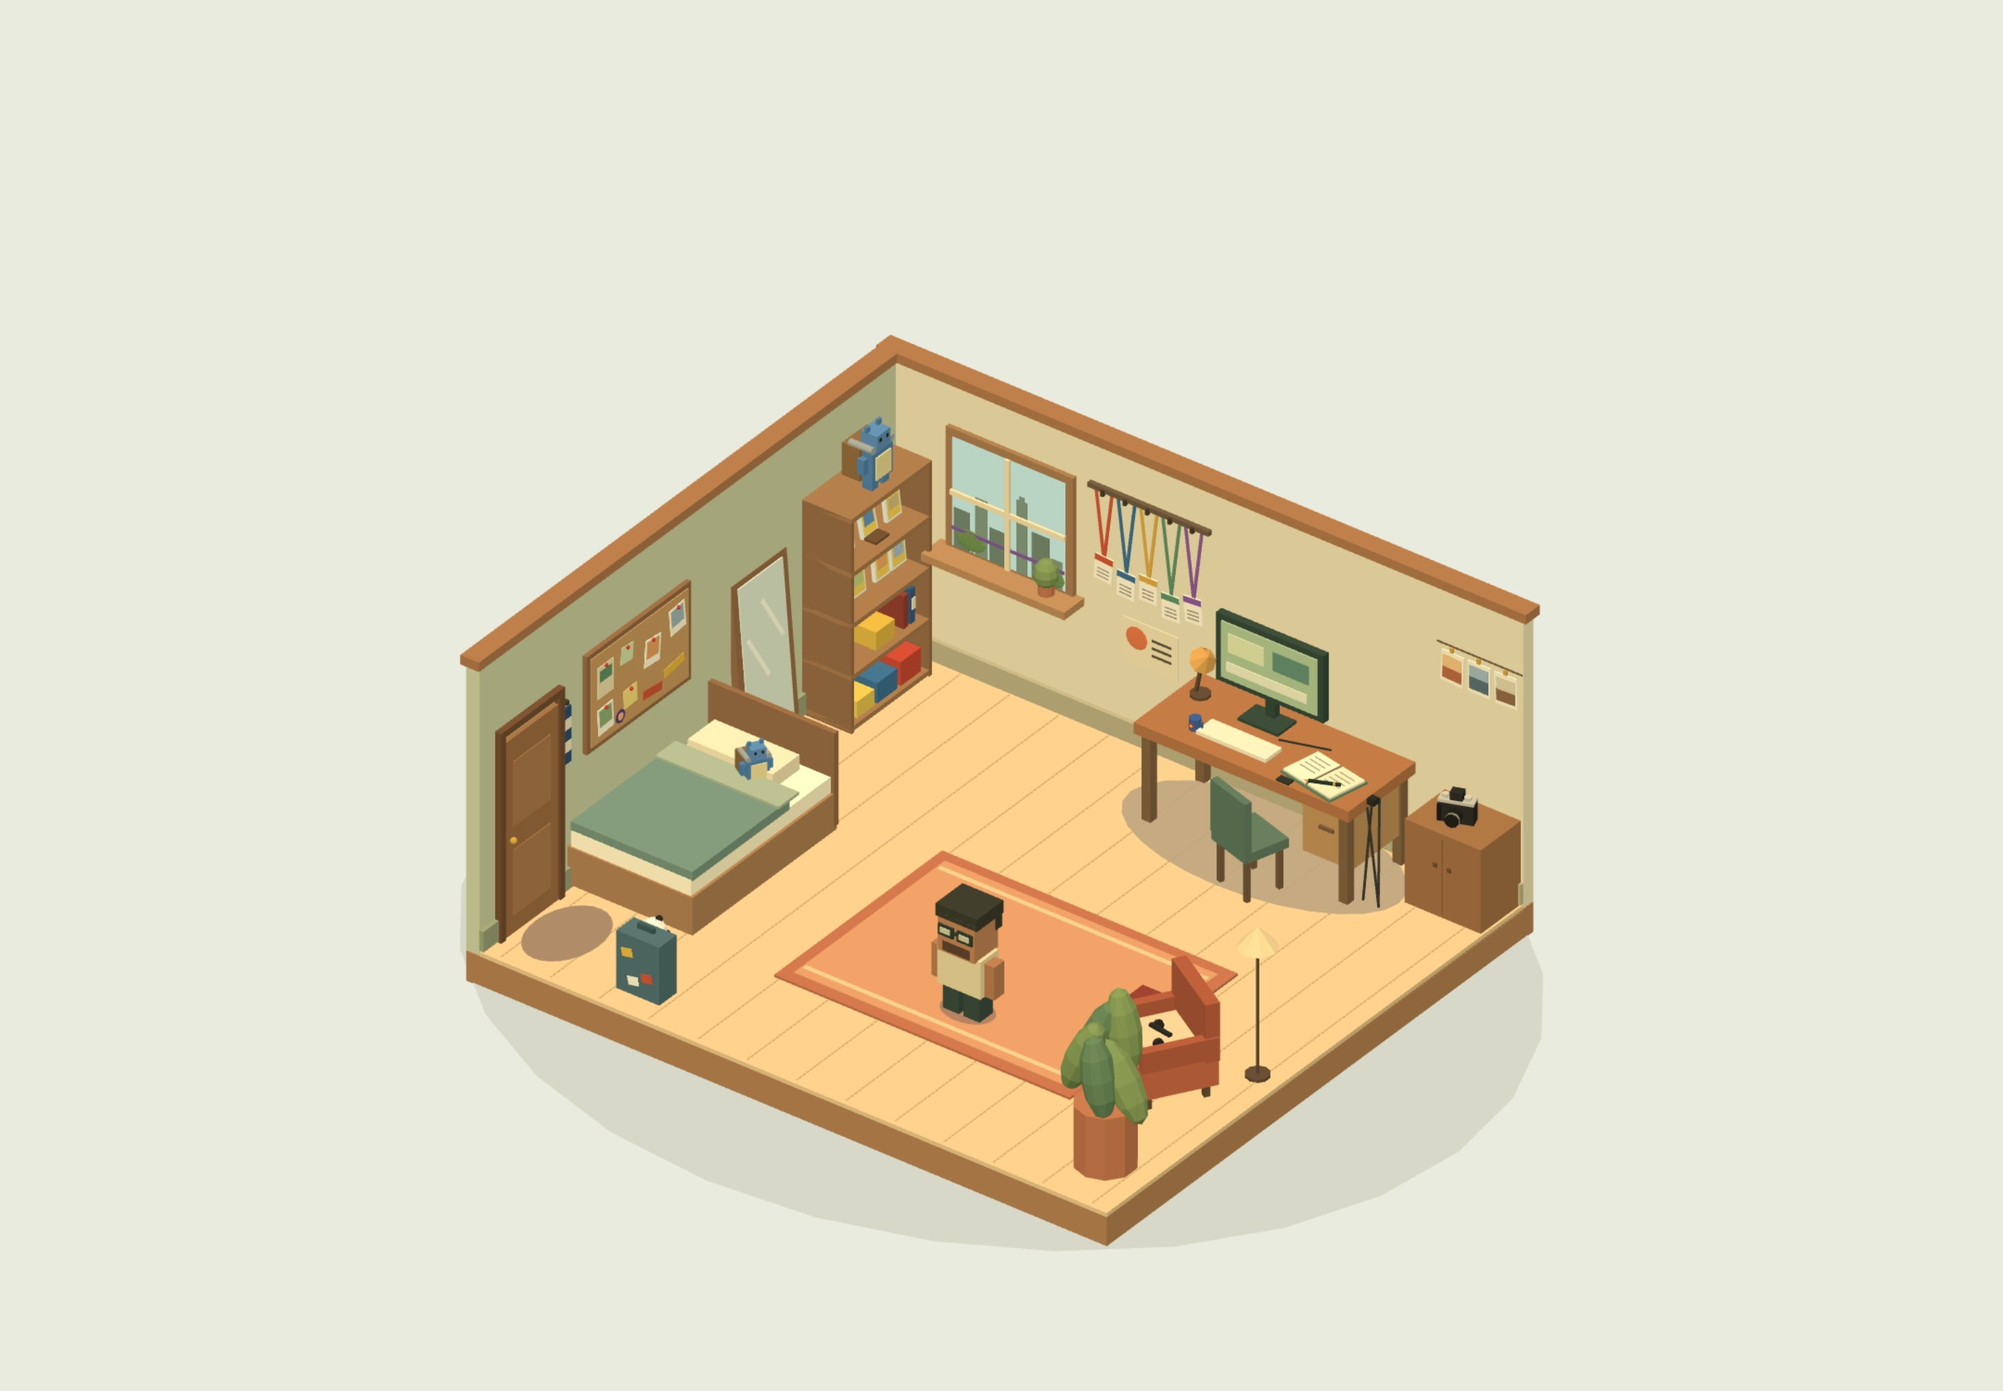
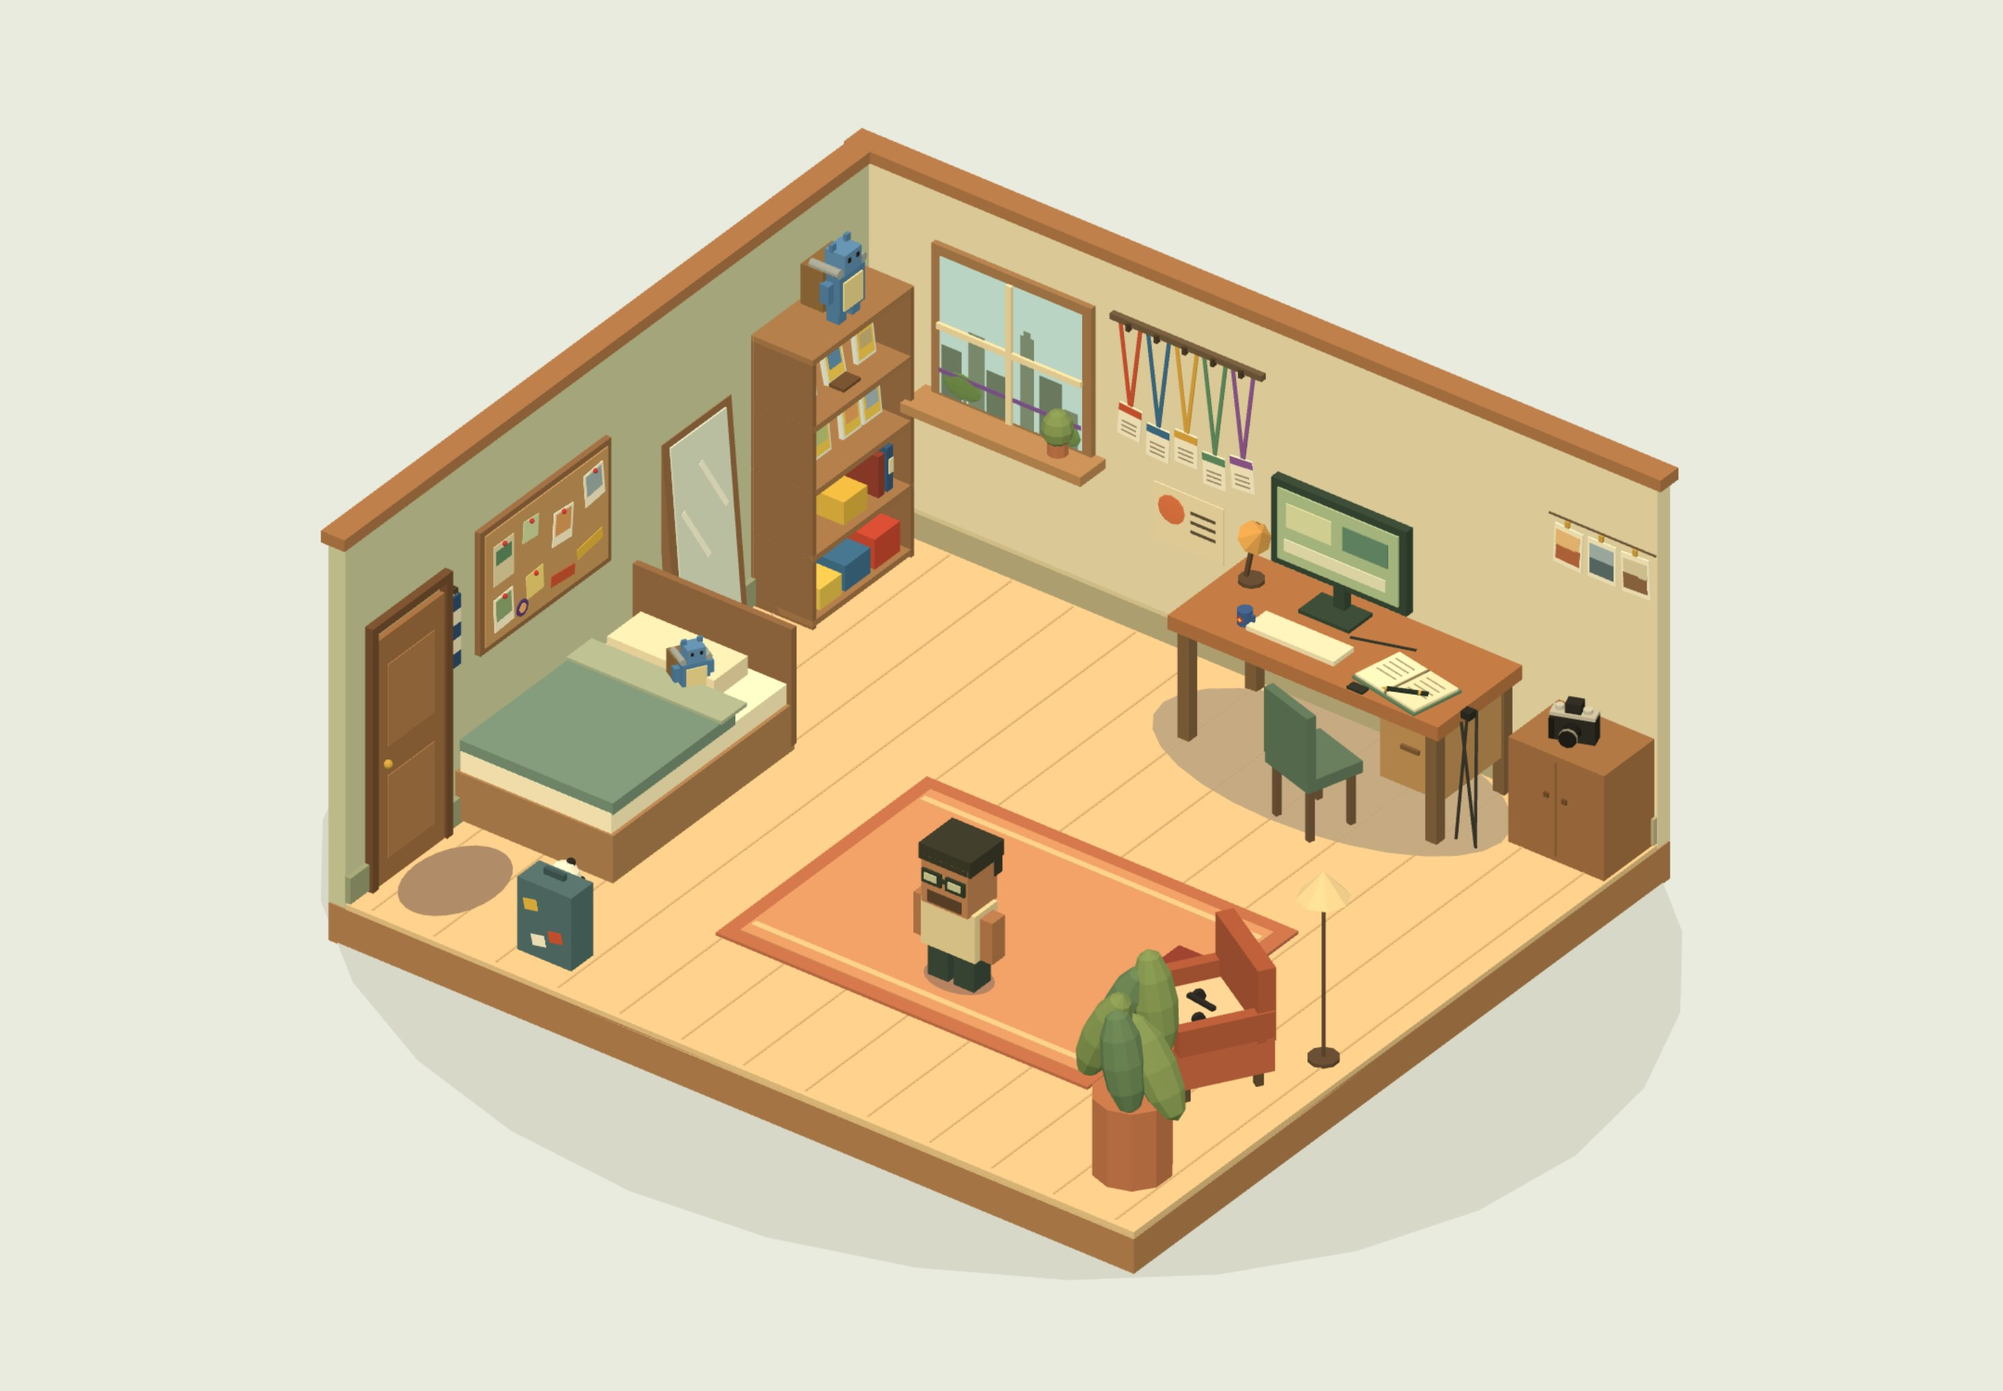
V3: focus the room on arrival, larger desktop room, E closes stations
Keyboard play now works the moment World appears: the room takes focus
on arrival unless something else already has it, and movement keys that
land on the page are routed to the room. On wide screens the room fills
most of the height instead of ~60%. E closes an open station, matching
E to open it, without reopening on the same key press.

diff --git a/src/lib/components/world/WorldView.svelte b/src/lib/components/world/WorldView.svelte
@@ -19,6 +19,7 @@
 	let lowQuality = $state(false);
 	let roomState = $state<RoomState>();
 	let diagnostics = $state(false);
+	let coarse = $state(false);
 	let open = $state<StationId | null>(null);
 	let hover = $state<{ label: string; x: number; y: number } | null>(null);
 	let note = $state('');
@@ -26,6 +27,42 @@
 	let returnFocus: HTMLElement | null = null;
 
 	const near = $derived(roomState?.near ? stationById[roomState.near] : null);
+
+	// Keyboard play should work the moment the room appears. Focus it on arrival, unless the
+	// visitor has already focused something; no focus ring for this programmatic focus.
+	const roomKeys = new Set([
+		'w',
+		'a',
+		's',
+		'd',
+		'e',
+		'arrowup',
+		'arrowleft',
+		'arrowdown',
+		'arrowright'
+	]);
+	const nothingFocused = () => !document.activeElement || document.activeElement === document.body;
+	function focusRoom() {
+		canvas.focus({ preventScroll: true, focusVisible: false } as FocusOptions);
+	}
+	let arrived = false;
+	function focusOnArrival() {
+		if (arrived) return;
+		arrived = true;
+		if (nothingFocused() && !dialog.open) focusRoom();
+	}
+	// If focus drifts to the page itself, movement keys still reach the room. Focused
+	// controls, the menu, and open stations are never interrupted, and Tab still leaves.
+	function forwardRoomKeys(event: KeyboardEvent) {
+		if (status !== 'ready' || !nothingFocused() || dialog.open) return;
+		if (menu.matches(':popover-open') || event.altKey || event.ctrlKey || event.metaKey) return;
+		if (!roomKeys.has(event.key.toLowerCase())) return;
+		event.preventDefault();
+		focusRoom();
+		canvas.dispatchEvent(
+			new KeyboardEvent('keydown', { key: event.key, repeat: event.repeat, cancelable: true })
+		);
+	}
 
 	// Deep pages link to /world#<station>; open it once the room is ready, or directly if it failed.
 	let hashHandled = false;
@@ -38,6 +75,7 @@
 		else void showStation(id);
 	}
 	$effect(() => {
+		if (status === 'ready') focusOnArrival();
 		if (status !== 'loading') openFromHash();
 	});
 
@@ -49,6 +87,16 @@
 		hover = null;
 		await tick();
 		if (!dialog.open) dialog.showModal();
+	}
+	// E opens a station from the room, so E closes it too (Escape still works).
+	// Ignore key repeat, so holding E after opening doesn't close it straight away, and stop the
+	// event here so it can't reach the room and reopen the station it just closed.
+	function closeOnE(event: KeyboardEvent) {
+		if (event.key.toLowerCase() !== 'e' || event.repeat) return;
+		if (event.altKey || event.ctrlKey || event.metaKey) return;
+		event.preventDefault();
+		event.stopPropagation();
+		dialog.close();
 	}
 	function closeStation() {
 		open = null;
@@ -89,10 +137,13 @@
 			menuButton.getBoundingClientRect().top,
 			hintEl?.getBoundingClientRect().top ?? height
 		);
-		room.setInsets({
-			top: topEl.getBoundingClientRect().bottom + 8,
-			bottom: narrow ? Math.max(24, height - lowest + 12) : 24
-		});
+		const titleBottom = topEl.getBoundingClientRect().bottom;
+		room.setInsets(
+			narrow
+				? { top: titleBottom + 8, bottom: Math.max(24, height - lowest + 12), units: 9.4 }
+				: // On wide screens the title sits left of the room's top, so it can overlap.
+					{ top: titleBottom * 0.5, bottom: 24, units: 8.6 }
+		);
 	}
 	$effect(() => {
 		if (status === 'ready' && hintEl) measureInsets();
@@ -108,6 +159,8 @@
 			room?.setReducedMotion(reducedMotion);
 		};
 		motion.addEventListener('change', updateMotion);
+		coarse = window.matchMedia('(pointer: coarse)').matches;
+		window.addEventListener('keydown', forwardRoomKeys);
 		const observer = new ResizeObserver(measureInsets);
 		observer.observe(frameEl);
 		observer.observe(topEl);
@@ -146,6 +199,7 @@
 			window.clearTimeout(timeout);
 			window.clearTimeout(noteTimer);
 			motion.removeEventListener('change', updateMotion);
+			window.removeEventListener('keydown', forwardRoomKeys);
 			room?.destroy();
 		};
 	});
@@ -223,11 +277,17 @@
 			{#if near}
 				<span class="eyebrow">{near.number} / {near.area}</span>
 				<span class="hint-title">{near.object}</span>
-				<span class="hint-key"><kbd>E</kbd> or tap it to look closer</span>
+				<span class="hint-key"
+					>{#if coarse}Tap it to look closer{:else}Press <kbd>E</kbd> to look closer{/if}</span
+				>
 			{:else}
 				<span class="eyebrow">Start anywhere</span>
 				<span class="hint-title">Walk up to something.</span>
-				<span class="hint-key">Or open the menu to pick.</span>
+				<span class="hint-key"
+					>{#if coarse}Tap the floor to walk, or open the menu.{:else}<kbd>W</kbd><kbd>A</kbd><kbd
+							>S</kbd
+						><kbd>D</kbd> or arrows to walk, or open the menu.{/if}</span
+				>
 			{/if}
 		</div>
 	{/if}
@@ -310,9 +370,18 @@
 	</p>
 </section>
 
-<dialog bind:this={dialog} class="sheet" onclose={closeStation} aria-labelledby="station-title">
+<dialog
+	bind:this={dialog}
+	class="sheet"
+	onclose={closeStation}
+	onkeydown={closeOnE}
+	aria-labelledby="station-title"
+>
 	{#if open}
 		<div class="sheet-top">
+			{#if !coarse}<span class="sheet-hint" aria-hidden="true"
+					><kbd>E</kbd> or <kbd>Esc</kbd> to close</span
+				>{/if}
 			<button class="close" onclick={() => dialog.close()} aria-label="Close and return to the room"
 				>Close ×</button
 			>
@@ -748,7 +817,15 @@
 	.sheet-top {
 		display: flex;
 		justify-content: flex-end;
+		align-items: center;
+		gap: 12px;
 		margin-bottom: 8px;
+	}
+	.sheet-hint {
+		font:
+			12px system-ui,
+			sans-serif;
+		color: #5f6555;
 	}
 	.close {
 		min-height: 44px;

diff --git a/tests/browser/world.spec.ts b/tests/browser/world.spec.ts
@@ -96,8 +96,20 @@ test('walking up to a station and pressing E inspects it', async ({ page }) => {
 	await page.mouse.click(target.x, target.y);
 	const canvas = page.locator('canvas');
 	await expect(canvas).toHaveAttribute('data-near', 'shelf');
-	await page.keyboard.press('e');
+	// Holding E opens the station once; the key repeat must not close it again.
+	await page.keyboard.down('e');
 	await expect(page.getByRole('heading', { name: 'Blastoise gets the top shelf.' })).toBeVisible();
+	await page.keyboard.down('e');
+	await page.keyboard.up('e');
+	await expect(page.getByRole('dialog')).toBeVisible();
+	// E closes what E opened, returns to the room, and does not reopen it.
+	await page.keyboard.press('e');
+	await expect(page.getByRole('dialog')).not.toBeVisible();
+	await expect(canvas).toBeFocused();
+	await page.waitForTimeout(300);
+	await expect(page.getByRole('dialog')).not.toBeVisible();
+	await page.keyboard.press('e');
+	await expect(page.getByRole('dialog')).toBeVisible();
 	await page.getByRole('button', { name: 'Back to the room' }).click();
 	await expect(canvas).toBeFocused();
 });
@@ -268,4 +280,41 @@ test('/now is a readable page that fills in the Bengaluru time', async ({ page }
 	await expect(page.getByRole('heading', { level: 1, name: 'Right now' })).toBeVisible();
 	await expect(page.getByText('Working on')).toBeVisible();
 	await expect(page.locator('.lede')).toContainText('here');
+});
+
+test('arriving focuses the room, so the keyboard works without a click', async ({ page }) => {
+	await openRoom(page);
+	const canvas = page.locator('canvas');
+	await expect(canvas).toBeFocused();
+	const start = await canvas.getAttribute('data-x');
+	await page.keyboard.down('d');
+	await page.waitForTimeout(300);
+	await page.keyboard.up('d');
+	await expect(canvas).not.toHaveAttribute('data-x', start!);
+	// If focus drifts to the page itself, movement keys still reach the room.
+	await page.evaluate(() => (document.activeElement as HTMLElement).blur());
+	const next = await canvas.getAttribute('data-x');
+	await page.keyboard.down('a');
+	await page.waitForTimeout(300);
+	await page.keyboard.up('a');
+	await expect(canvas).toBeFocused();
+	await expect(canvas).not.toHaveAttribute('data-x', next!);
+	// Focused controls keep focus; Tab still leaves the room.
+	await page.getByRole('link', { name: 'Index', exact: true }).focus();
+	await page.keyboard.press('d');
+	await expect(page.getByRole('link', { name: 'Index', exact: true })).toBeFocused();
+});
+
+test('arrival never steals focus from a deep-linked station or other pages', async ({
+	browser
+}) => {
+	const context = await browser.newContext({ reducedMotion: 'reduce' });
+	const page = await context.newPage();
+	await page.goto('/world#door');
+	await expect(page.getByRole('heading', { name: 'Elsewhere' })).toBeVisible();
+	expect(await page.evaluate(() => Boolean(document.activeElement?.closest('dialog')))).toBe(true);
+	await page.goto('/index');
+	await page.waitForLoadState('networkidle');
+	expect(await page.evaluate(() => document.activeElement === document.body)).toBe(true);
+	await context.close();
 });

diff --git a/src/lib/world/scene.ts b/src/lib/world/scene.ts
@@ -232,7 +232,7 @@ export function createRoom(canvas: HTMLCanvasElement, options: Options) {
 	let reducedMotion = options.reducedMotion;
 	let lowQuality = options.lowQuality;
 	// Screen space covered by overlaid UI (CSS px); the room is framed in what's left.
-	let insets = { top: 0, bottom: 0 };
+	let insets = { top: 0, bottom: 0, units: 9.4 };
 	let paused = false;
 	let disposed = false;
 	let frame = 0;
@@ -553,7 +553,8 @@ export function createRoom(canvas: HTMLCanvasElement, options: Options) {
 		const { width, height } = canvas.getBoundingClientRect();
 		if (!width || !height) return;
 		const free = Math.max(height * 0.4, height - insets.top - insets.bottom);
-		const freeHeight = Math.max(9.4, 11.4 / (width / free));
+		// The room is ~9.5 × 8 units on screen; `units` sets how snugly it fills the free height.
+		const freeHeight = Math.max(insets.units, 11.4 / (width / free));
 		const unitsPerPx = freeHeight / free;
 		const viewHeight = unitsPerPx * height;
 		const aspect = width / height;
@@ -637,8 +638,13 @@ export function createRoom(canvas: HTMLCanvasElement, options: Options) {
 			lowQuality = value;
 			resize();
 		},
-		setInsets(value: { top: number; bottom: number }) {
-			if (value.top === insets.top && value.bottom === insets.bottom) return;
+		setInsets(value: { top: number; bottom: number; units: number }) {
+			if (
+				value.top === insets.top &&
+				value.bottom === insets.bottom &&
+				value.units === insets.units
+			)
+				return;
 			insets = value;
 			resize();
 		},

diff --git a/og/og.html b/og/og.html
@@ -116,7 +116,7 @@
 				object-fit: cover;
 				object-position: 50% 57%;
 				/* The capture is full-page; zoom so the room fills the card. */
-				transform: scale(1.3);
+				transform: scale(1.04);
 				transform-origin: 50% 57%;
 			}
 		</style>

diff --git a/HANDOVER.md b/HANDOVER.md
@@ -10,7 +10,7 @@
 
 ## Current state (verified 2026-10-01)
 
-- Branch: `v3-world`, based on `12cbe80`. One commit per phase: Phase 0 `f85cdaf`, Phase 1 `2e6ceee`, Phase 2 `298269e`, Phase 3 `e71d7cc`, Phase 4 `9b8afb4`, Phase 5 `4b772bd`, then a full-page World follow-up (this state). `main` is untouched. Nothing is pushed to the remote.
+- Branch: `v3-world`, based on `12cbe80`. One commit per phase: Phase 0 `f85cdaf`, Phase 1 `2e6ceee`, Phase 2 `298269e`, Phase 3 `e71d7cc`, Phase 4 `9b8afb4`, Phase 5 `4b772bd`, full-page World `1b0e26b`, then focus, desktop size, and E-to-close (this state). `main` is untouched. Nothing is pushed to the remote.
 - Stack: SvelteKit 2.70, Svelte 5.57, TypeScript, Tailwind 4, **adapter-node 5.5.7** (replaced adapter-static), Three.js 0.186.1.
 - `/world` has all nine stations from the brief (desk & computer, notebook & fountain pen, Fujifilm X-T30 II, Pokémon shelf, corkboard, conference wall, mirror, window, door) and four curiosities (Blastoise plush, Superman mug, suitcase, football), plus decoration (reading corner, tripod, prints, lamp). The window follows Bengaluru time. `/now` exists. `/index` is SSR and never loads the scene.
 - `/` renders World or Index on the server from the `mode` cookie (default World). `/world` and `/index` set it.
@@ -282,4 +282,15 @@
 - `scripts/derive-assets.mjs`: hides the new overlays when capturing. Regenerated `static/room-still.jpg` (69 KB, full-page framing), `og/room.jpg`, and the portrait copies (byte-identical). `og/og.html`: zooms the full-page capture so the room still fills the card; `static/og.png` re-rendered.
 - `v3.md`: input contract and launch checklist describe the full-page layout and the menu.
 - Re-ran `npm run perf` on the full-page room: FCP 312 ms, room ready 1.74 s (was 1.47 s with the smaller canvas), walking p50/p95 16.7 ms with one 100 ms spike, zero idle frames. `v3.md` numbers updated.
+- Ran Prettier on the files above.
+
+### 2026-10-01 — Focus on arrival, larger desktop room, E closes stations (user requests)
+
+- User asked to "automatically enforce focus when someone joins": implemented as keyboard play working immediately. `src/lib/components/world/WorldView.svelte` focuses the canvas once the room is ready (`focusVisible: false`, `preventScroll`), unless something is already focused or a deep link opened a station. A window-level listener routes movement keys and E to the room when focus is on the page itself (not when a control is focused, the menu is open, or a station is open). Tab still leaves the room. Not applied to Index or deep pages.
+- The room hint now names the controls for the device: keys on desktop ("WASD or arrows to walk", "Press E to look closer"), taps on touch screens.
+- User asked for a much larger room on desktop: on wide screens WorldView reserves half the title height (the title sits left of the room's top) and `src/lib/world/scene.ts` fits 8.6 vertical units instead of 9.4 (`setInsets` gained a `units` field). On 1440×900 the room grew from ~540px to ~730px tall; checked at 1024×768, 1280×720, 1440×900, and 1920×1080 for title, hint, and menu-button clearance. Phone framing unchanged.
+- User asked for E to close the station sheets as well: `closeOnE` on the dialog closes on E (ignores key repeat so holding E after opening doesn't close it; stops propagation so the closing E can't reach the room and reopen the station). The sheet shows "E or Esc to close" on keyboard devices.
+- `tests/browser/world.spec.ts`: the E test now holds E (no instant close), closes with E, checks it does not reopen, and reopens with E; new tests for focus on arrival (keys work without a click, keys routed after focus drifts to the page, focused links keep focus) and for not stealing focus from a deep-linked station or on `/index`. 24 browser tests total.
+- Regenerated `static/room-still.jpg` and `og/room.jpg` for the larger framing; `og/og.html` zoom lowered from 1.3 to 1.04 to match; `static/og.png` re-rendered.
+- `v3.md`: input contract covers focus on arrival, key routing, E to close, and the desktop framing.
 - Ran Prettier on the files above.

diff --git a/v3.md b/v3.md
@@ -957,16 +957,25 @@ artifacts, so there is one maintained source.
 - Layout (positions, hitboxes, approach points, furniture footprints) lives in
   `src/lib/world/layout.ts` with no Three.js import, so it is unit-tested.
   Meaning (labels, areas, routes) lives in `src/lib/data/room.ts`.
-- Keyboard movement is scoped to a focused room. Screen-relative WASD/arrows
-  derived from the camera azimuth, normalized diagonals, fast traversal. E/Enter
-  inspects the nearest station within a generous radius.
+- Keyboard movement is scoped to a focused room. The room takes focus on
+  arrival (no focus ring for that programmatic focus) unless the visitor already
+  focused something or a `/world#station` link opened a station; if focus later
+  drifts to the page itself, movement keys are routed to the room. Focused
+  controls are never interrupted and Tab still leaves the room (no keyboard
+  trap). Screen-relative WASD/arrows derived from the camera azimuth, normalized
+  diagonals, fast traversal. E/Enter inspects the nearest station within a
+  generous radius, and E closes the open station again (key repeat ignored, so
+  holding E doesn't reopen or close it); Escape also closes.
 - Tap/click the floor to walk; tapping an object walks to its approach point and
   opens it. Furniture footprints deflect movement (the character slides around
   them) but never block it; a stalled path simply stops.
 - World is the whole page: a fixed, full-viewport canvas with UI floating over
   it. A transparent header keeps WORLD / INDEX visible at all times; the title
   sits under it; a hint card and an "In the room" menu button sit at the bottom.
-  The scene frames the room in the space the overlays leave (`setInsets`).
+  The scene frames the room in the space the overlays leave (`setInsets`). On
+  wide screens the title sits left of the room's top, so only half its height is
+  reserved and the room fills ~93% of the remaining height; phones reserve the
+  full title, hint card, and menu button.
 - Every station is also a DOM button in the "In the room" menu, a native
   `popover` (it opens without JavaScript and is in the server-rendered HTML),
   with a plain link to its deep page, the curiosities, and the room settings.
